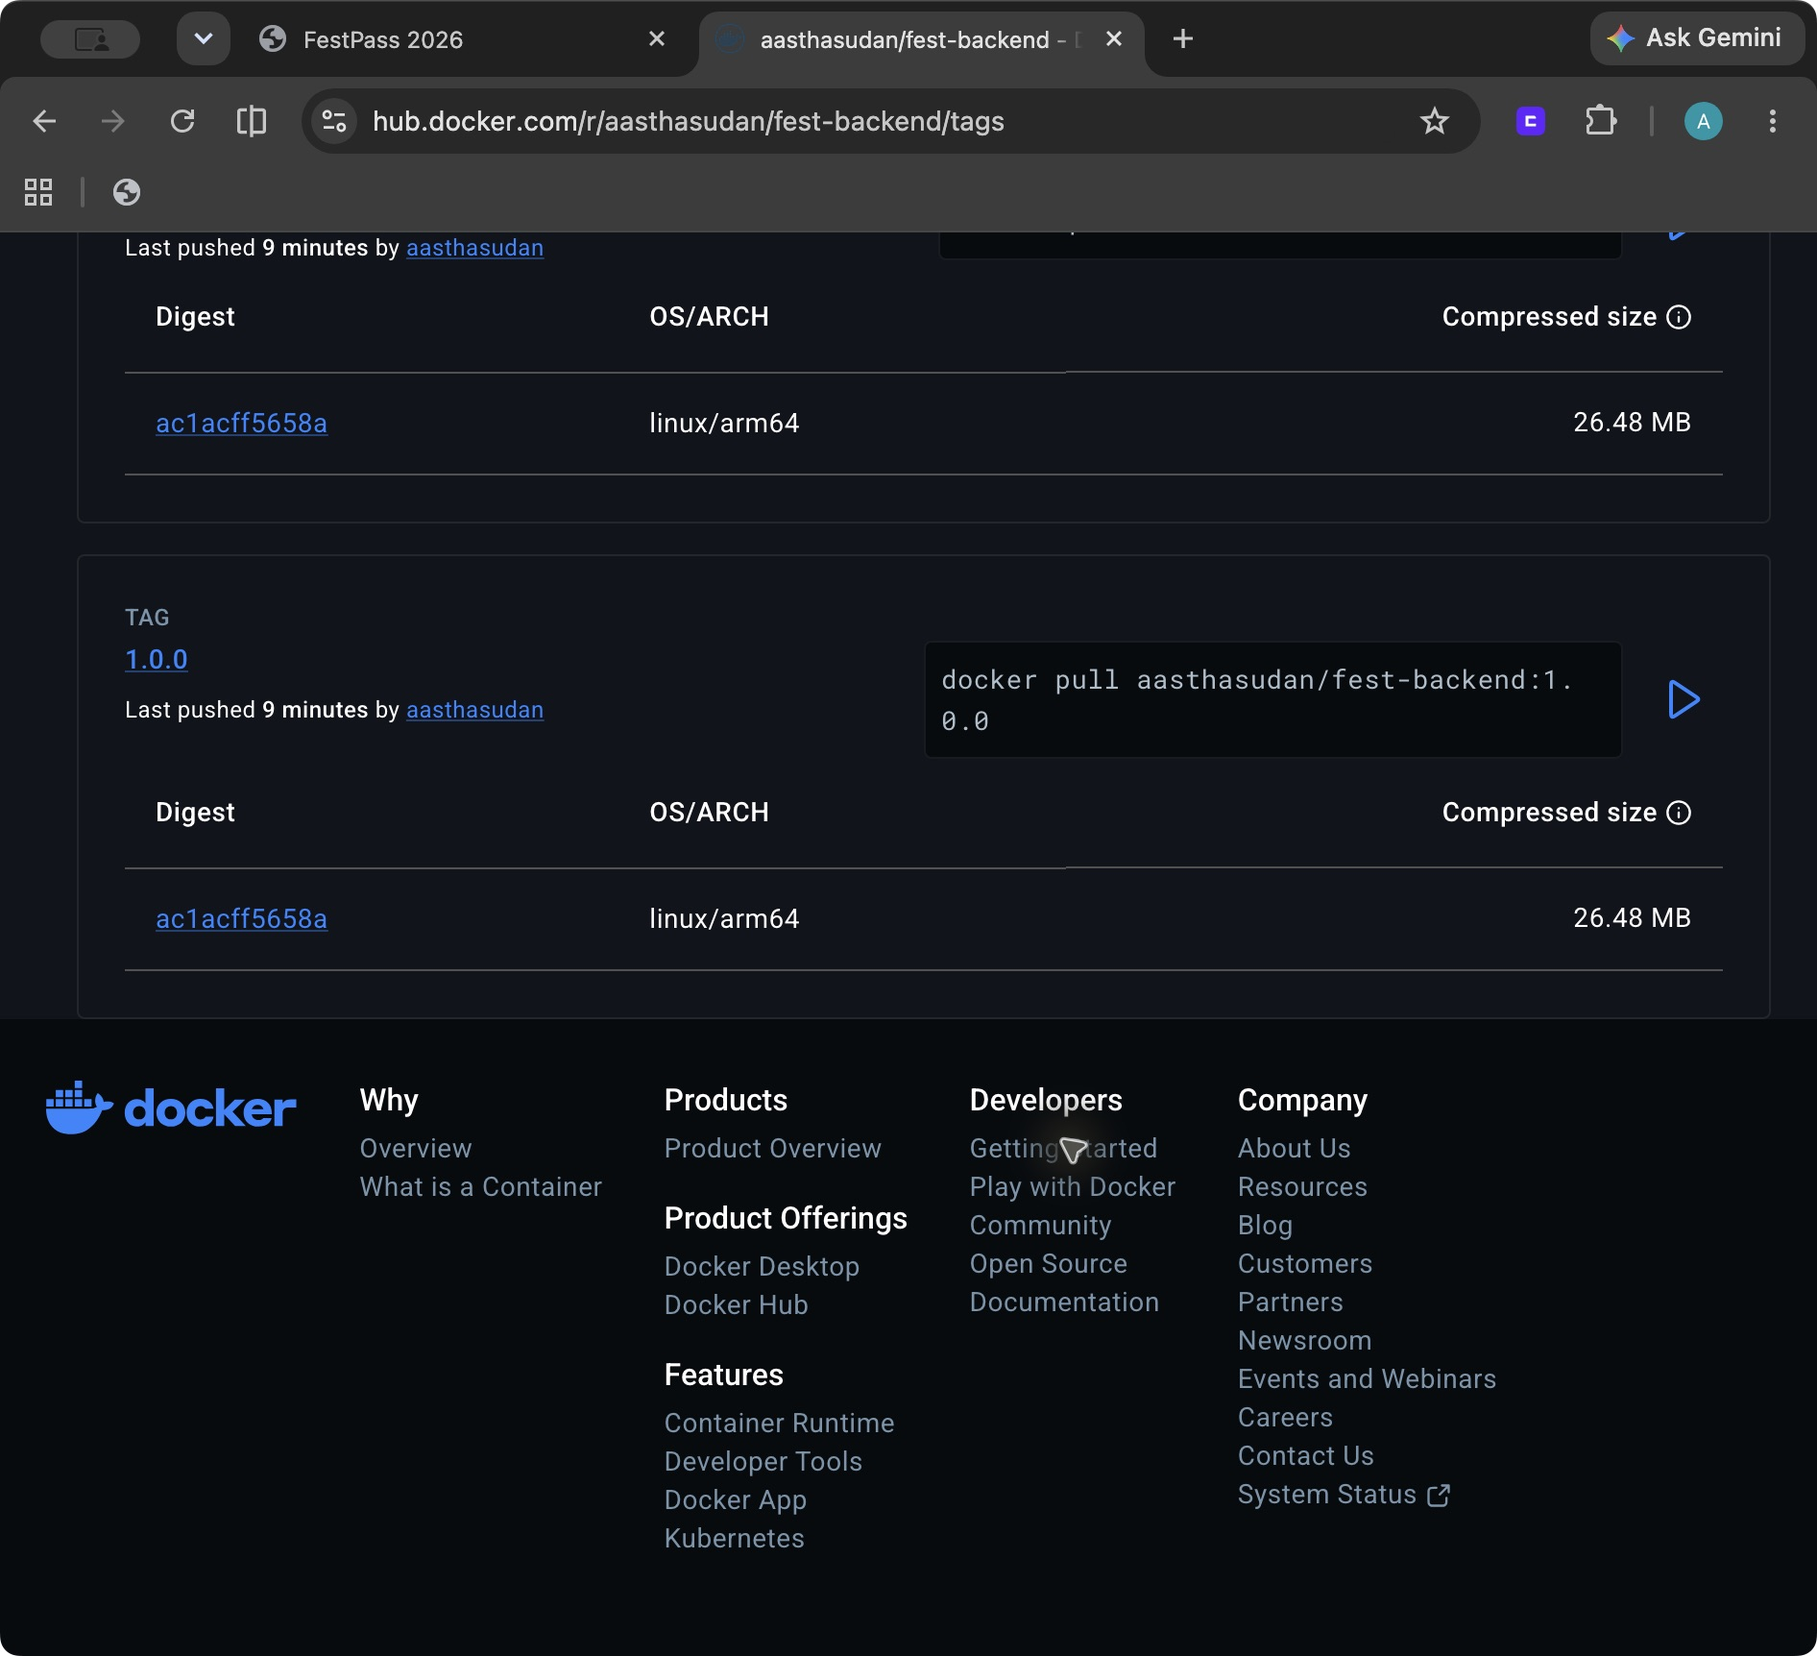
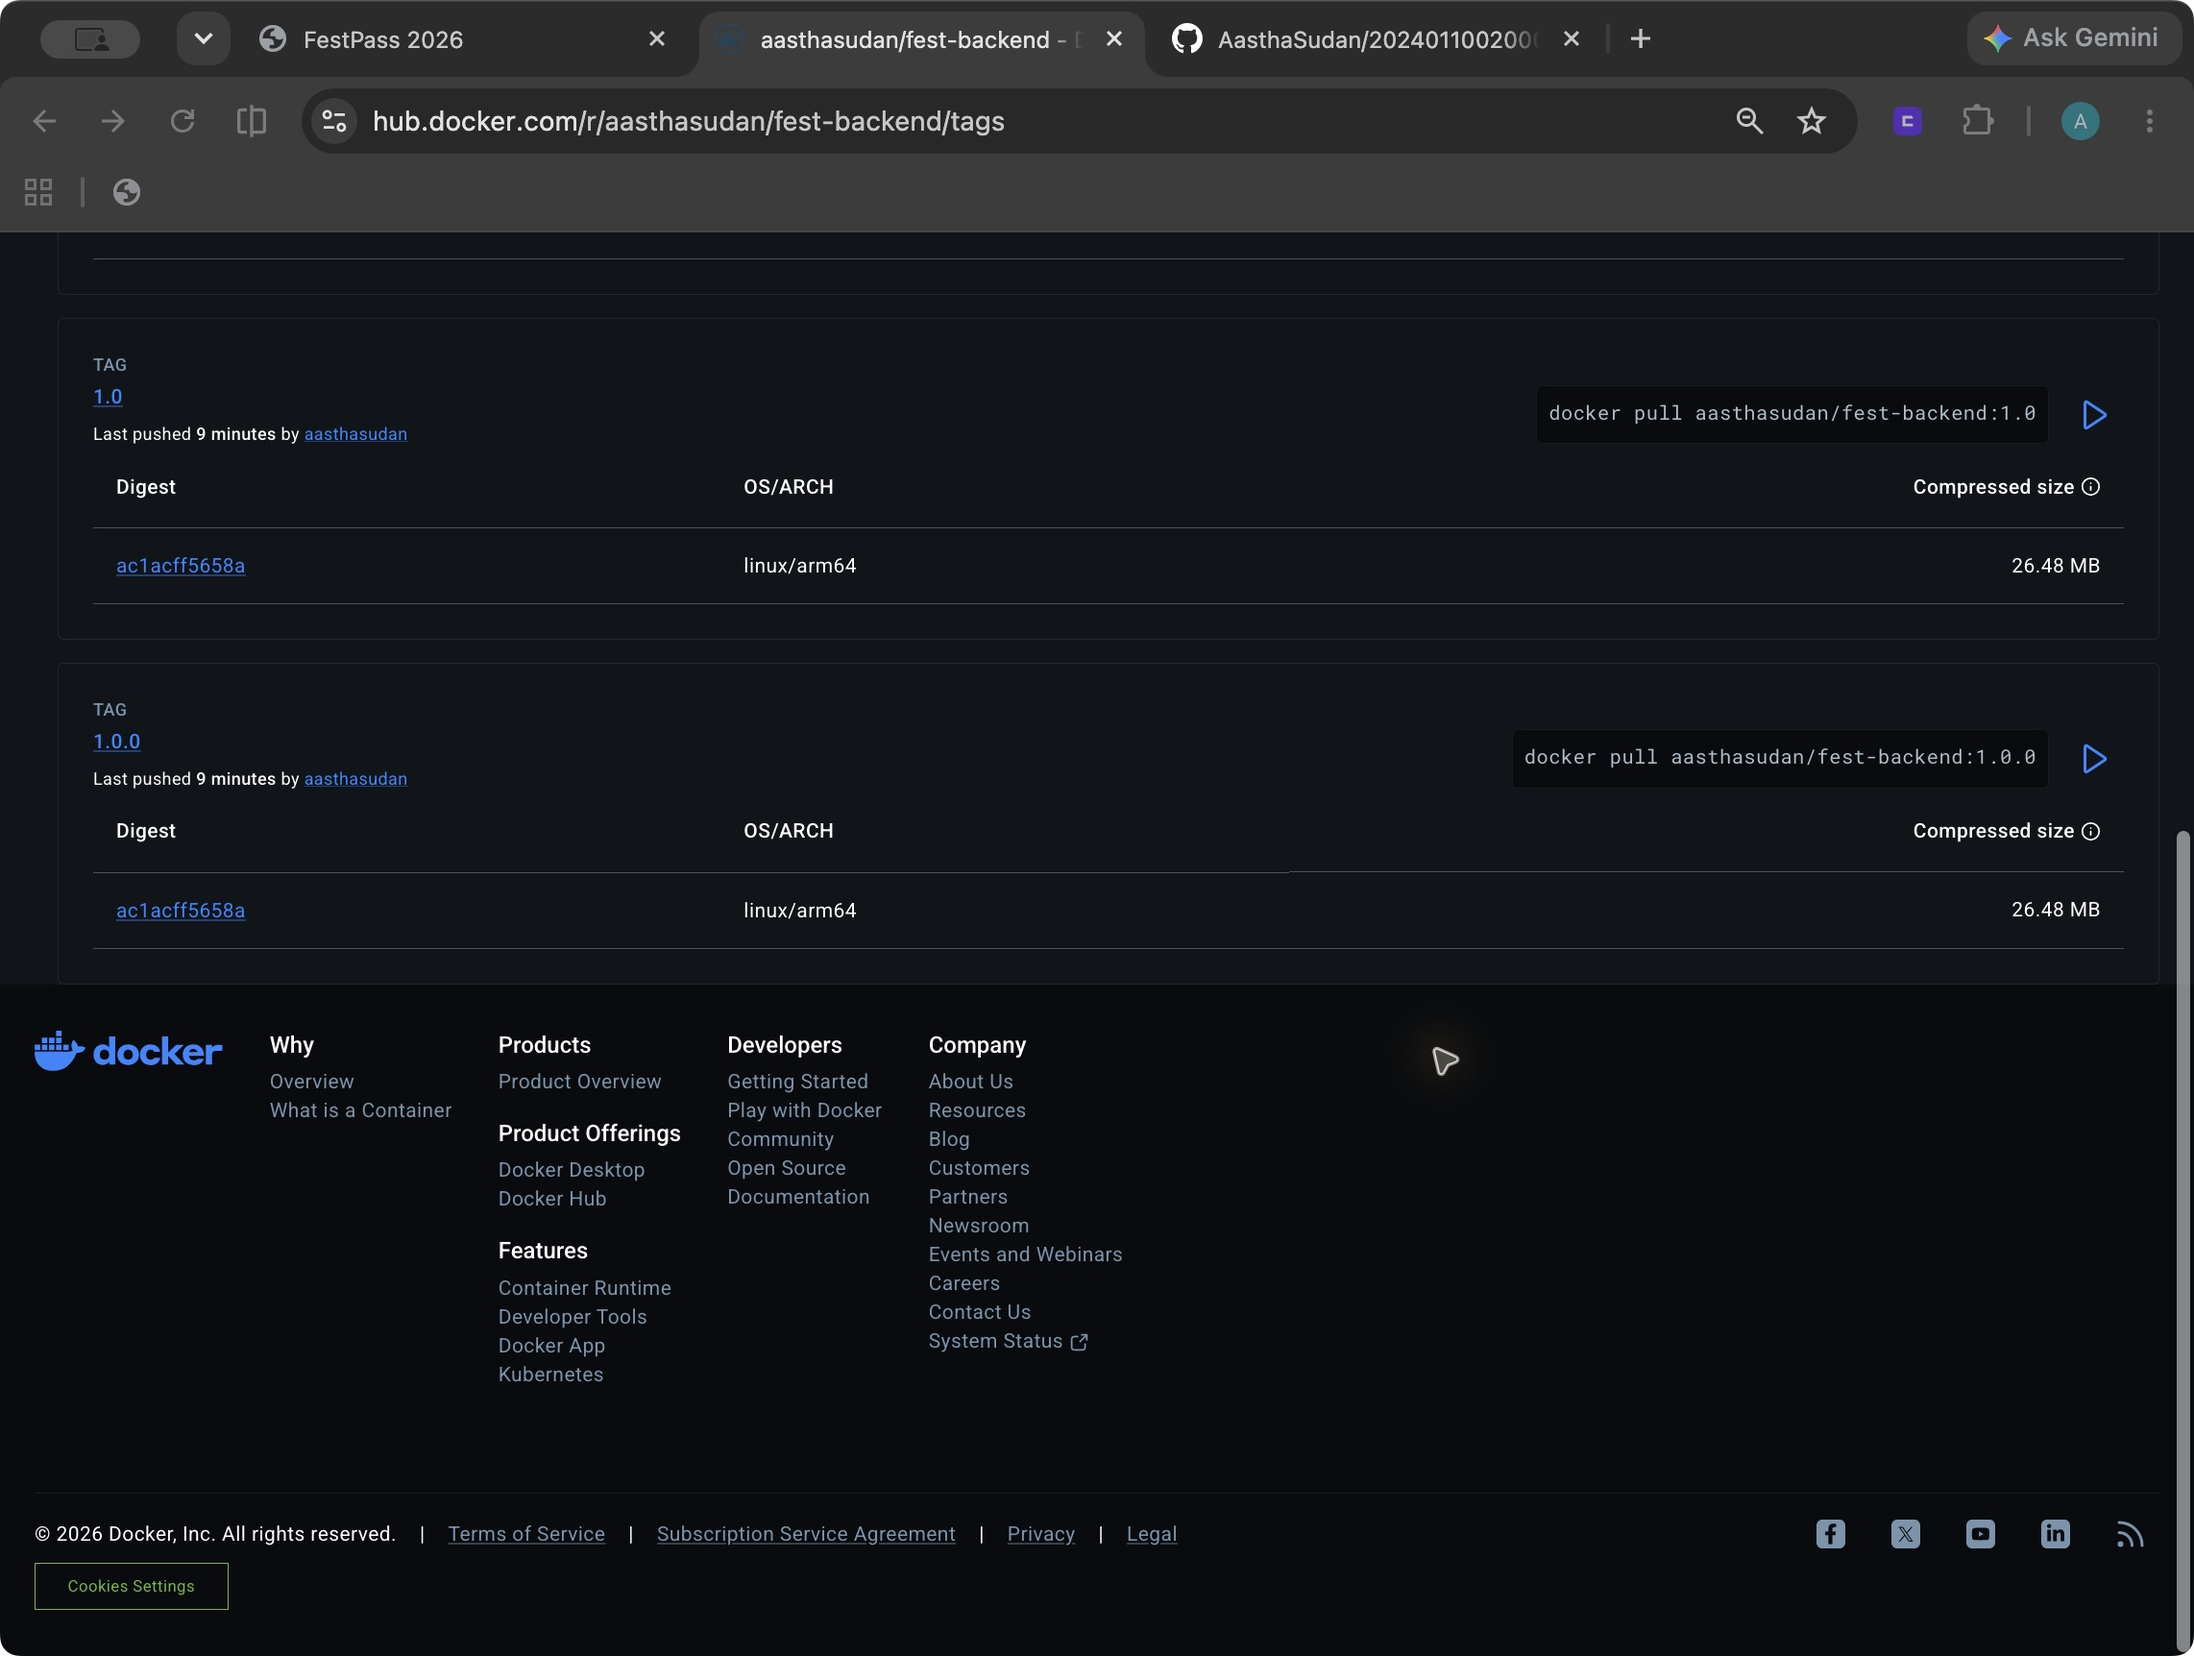
Complete direct signing screenshots and final evidence index

diff --git a/README.md b/README.md
@@ -53,7 +53,25 @@ Counts include all findings across targets in each report. Five HIGH findings re
 
 ## Evidence and limitations
 
-Browser and terminal screenshots are saved in `screenshots/`, named with the assessment evidence codes. The terminal uses the REGNO prompt. Terminal captures review the genuine saved command output with cat/tail, except the isolation/volume/registration and signed/unsigned verification commands which are rerun directly. The original execution logs are retained in reports/. This distinction is recorded transparently because a marker may require screenshots of the original commands themselves.
+Use the `-direct` captures below for the command evidence. These are unedited captures of the actual IDE terminal, with the REGNO prompt and commands visible. Earlier captures that display saved logs remain as supporting evidence. Browser captures show the actual application and public Docker Hub pages.
+
+- S1-2: `screenshots/S1-2-direct.png` shows the original Python 3.9 build and image listing with size.
+- S1-3: `screenshots/S1-3-direct.png` shows the standalone container, assigned port, REGNO health response and logs. Its subsequent removal is also recorded in `reports/stage1-standalone-final.txt`.
+- S2-2: `screenshots/S2-2-direct.png` shows database DNS resolution failing inside the frontend.
+- S2-3: `screenshots/S2-3_S2-4.png` shows the original page and registrations.
+- S2-4: `screenshots/S2-4-direct.png` shows down/up commands, registrations before and after, and the named volume. An initial HTTP 502 during startup is retried successfully in the same capture.
+- S3-1: `screenshots/S3-1-direct.png` shows the direct before scan and per-target severity totals.
+- S3-3: `screenshots/S3-3-after-direct.png` shows the fixed scan and saved report; `screenshots/S3-3-gate-direct.png` shows the required CRITICAL gate with exit code 0. JSON output formatting keeps the entire command and result visible.
+- S4-1: `screenshots/S4-1-direct.png` shows both public version tags being pushed with the unchanged signed digest. The initial Docker push output is preserved in `reports/push-1.0.0.txt` and `reports/push-1.0.txt`. For this capture, Docker Buildx copies the existing published OCI index exactly, as documented at https://docs.docker.com/reference/cli/docker/buildx/imagetools/create/.
+- S4-2: `screenshots/S4-2.png` shows Docker Hub's Tags page and username. The digest printed on the per-platform Docker Hub row is the linux/arm64 child manifest; the release digest recorded above is the enclosing OCI index printed by Docker push.
+- S4-3: `screenshots/S4-3.png` shows version 1.0.0 with the persisted registrations. Image removal and fresh pull are recorded in `reports/final-registry-redeploy.txt`.
+- S5-1: `screenshots/S5-1-direct.png` shows the encrypted private-key header, private file permissions, Git ignore result and tracked public key, together with the original generation log.
+- S5-2: `screenshots/S5-2-direct.png` shows signing by the full release digest and exit code 0.
+- S5-3 / S5-4: `screenshots/S5-3_S5-4-digest-direct.png` shows direct verification of the signed digest and rejection of unsigned 1.0.1.
+
+All technical stages were executed on this Mac. No technical stage remains unperformed. The student must still personally review and run commands as required by the assessment's execution rule; assistant execution and screenshots do not establish personal execution by the student. AI assistance is declared above.
+
+The existing GitHub repository was renamed to the required REGNO-based name. Repository identity and the original HEAD were verified unchanged (`reports/repository-rename.json`); no commits or timestamps were rewritten. Additional evidence commits retain their actual later timestamps. The previous submitted URL redirects to the renamed repository.
 
 The Mac ran out of disk space during the initial attempt. Rebuildable Gradle cache files were removed and Docker was recovered; earlier failure logs are retained alongside successful retry results. No project files or database volumes were removed for storage cleanup.
 
